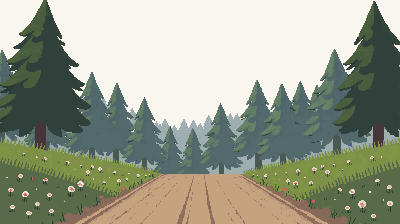
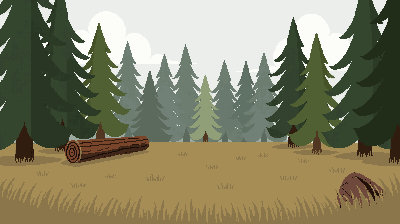
Draw every figure to one scale, and take the autumn clearing
Each sprite filled its 64px canvas, so a boar came out as tall as a man
and an elk smaller than a wolf. view/art.ts now gives every figure a
real-world height in metres and the measured pixel height of its
drawing, and the scene draws all of them at one shared pixels-per-metre.
The art helpers move out of app.ts into that file with it.

The forest edge is now the grey autumn clearing, the owner's pick.

diff --git a/src/view/art.ts b/src/view/art.ts
@@ -1,0 +1,62 @@
+import type { MonsterDefinition } from '../sim/types.ts';
+
+/**
+ * Where art lives and how big it is drawn. The simulation never imports this.
+ */
+
+/** Sprites live in public/sprites and are looked up by id. */
+export const spriteFor = (id: string): string => `/sprites/${id}.png`;
+
+/** One icon per slot: every item in a slot shares a name, so it shares a picture. */
+export const iconFor = (slot: string): string => `/icons/${slot}.png`;
+
+/**
+ * Where a fight happens. The spar is inside the walls; everything else is out
+ * past them. Decided here, in the view, because the simulation has no idea
+ * that places exist.
+ */
+export const sceneFor = (definition: MonsterDefinition): string =>
+  `/scenes/${definition.defeat === 'yields' ? 'bastion' : 'forest-edge'}.png`;
+
+/**
+ * How tall each figure really is, so sizes make sense side by side.
+ *
+ * Every sprite fills its 64px canvas, so drawn at one size a boar comes out
+ * as big as a man and an elk smaller than a wolf. Instead each figure is
+ * given a real-world height in metres, and the scene draws it to a shared
+ * scale (`--ppm`, pixels per metre, in the stylesheet).
+ *
+ * `figurePx` is the height of the opaque pixels on the 64px canvas, measured
+ * once when the sprite landed. Re-measure it if the sprite is regenerated.
+ * `metres` is the top of the figure as drawn to the ground — antlers count,
+ * a bear on all fours is measured at the hump.
+ */
+interface FigureHeight {
+  readonly metres: number;
+  readonly figurePx: number;
+}
+
+const FIGURE_HEIGHTS: Readonly<Record<string, FigureHeight>> = {
+  greataxe: { metres: 1.85, figurePx: 52 },
+  'twin-daggers': { metres: 1.75, figurePx: 59 },
+  oswald: { metres: 1.75, figurePx: 57 },
+  'strange-boar': { metres: 1.0, figurePx: 57 },
+  'strange-elk': { metres: 2.3, figurePx: 54 },
+  'strange-wolf': { metres: 0.85, figurePx: 32 },
+  'strange-bear': { metres: 1.2, figurePx: 43 },
+  'strayed-hunter': { metres: 2.0, figurePx: 60 },
+};
+
+/** Fallback for a sprite nobody has measured yet: drawn as if it were a person. */
+const UNMEASURED: FigureHeight = { metres: 1.8, figurePx: 56 };
+
+/** A sprite plus how many metres its whole 64px canvas stands for. */
+export interface Figure {
+  readonly sprite: string;
+  readonly canvasMetres: number;
+}
+
+export function figureFor(id: string): Figure {
+  const height = FIGURE_HEIGHTS[id] ?? UNMEASURED;
+  return { sprite: spriteFor(id), canvasMetres: (height.metres * 64) / height.figurePx };
+}

diff --git a/src/view/app.ts b/src/view/app.ts
@@ -4,7 +4,7 @@ import { runFight } from '../sim/combat.ts';
 import { createHero, createMonster } from '../sim/combatants.ts';
 import { Rng } from '../sim/rng.ts';
 import { rollDrop } from '../sim/roll.ts';
-import type { Combatant, Item, Modifier, MonsterDefinition, Slot, Weapon } from '../sim/types.ts';
+import type { Combatant, Item, Modifier, MonsterDefinition, Weapon } from '../sim/types.ts';
 import {
   acquireWeapon,
   addToBackpack,
@@ -22,22 +22,9 @@ import {
   type RunState,
 } from '../state/run.ts';
 import { loadRun, saveRun } from '../state/storage.ts';
+import { figureFor, iconFor, sceneFor, spriteFor } from './art.ts';
 import { playFight } from './fight-view.ts';
 import { formatModifier, isBeneficial } from './format.ts';
-
-/** Sprites live in public/sprites and are looked up by id. */
-const spriteFor = (id: string): string => `/sprites/${id}.png`;
-
-/** One icon per slot: every item in a slot shares a name, so it shares a picture. */
-const iconFor = (slot: Slot): string => `/icons/${slot}.png`;
-
-/**
- * Where a fight happens. The spar is inside the walls; everything else is out
- * past them. Decided here, in the view, because the simulation has no idea
- * that places exist.
- */
-const sceneFor = (definition: MonsterDefinition): string =>
-  `/scenes/${definition.defeat === 'yields' ? 'bastion' : 'forest-edge'}.png`;
 
 /**
  * How often a corrupted kill yields a weapon you do not already have.
@@ -83,8 +70,8 @@ export function start(mount: HTMLElement): void {
     mount.append(stage);
 
     await playFight(stage, you, foe, result, {
-      hero: spriteFor(run.weaponId),
-      foe: spriteFor(definition.id),
+      hero: figureFor(run.weaponId),
+      foe: figureFor(definition.id),
       scene: sceneFor(definition),
     });
 

diff --git a/src/view/fight-view.ts b/src/view/fight-view.ts
@@ -1,4 +1,5 @@
 import type { Combatant, CombatEvent, FightResult } from '../sim/types.ts';
+import type { Figure } from './art.ts';
 
 /**
  * Plays a finished fight back to the player.
@@ -30,8 +31,8 @@ interface Side {
  * simulation has no idea art exists and should keep it that way.
  */
 export interface FightArt {
-  readonly hero: string;
-  readonly foe: string;
+  readonly hero: Figure;
+  readonly foe: Figure;
   /** Backdrop for the whole exchange. Where you are, not who you are. */
   readonly scene: string;
 }
@@ -155,7 +156,7 @@ function apply(event: CombatEvent, sides: Map<string, Side>, log: HTMLOListEleme
   }
 }
 
-function sideMarkup(kind: 'hero' | 'foe', combatant: Combatant, sprite: string): string {
+function sideMarkup(kind: 'hero' | 'foe', combatant: Combatant, figure: Figure): string {
   const meter =
     combatant.resource === null
       ? ''
@@ -172,7 +173,13 @@ function sideMarkup(kind: 'hero' | 'foe', combatant: Combatant, sprite: string):
         ${meter}
       </div>
       <div class="figure">
-        <img class="portrait" src="${escape(sprite)}" alt="" onerror="this.remove()" />
+        <img
+          class="portrait"
+          src="${escape(figure.sprite)}"
+          style="--canvas-metres: ${figure.canvasMetres}"
+          alt=""
+          onerror="this.remove()"
+        />
         <div class="floaters"></div>
       </div>
     </div>

diff --git a/src/style.css b/src/style.css
@@ -261,6 +261,8 @@ button.ghost:hover {
  * them in. Pixel art, so it scales without blur.
  */
 .scene {
+  /* Pixels per metre. Every figure is drawn to this one scale. */
+  --ppm: 60;
   position: relative;
   aspect-ratio: 400 / 224;
   border: 1px solid var(--ink-edge);
@@ -466,9 +468,8 @@ button.ghost:hover {
 }
 
 @media (max-width: 34rem) {
-  .scene .portrait {
-    width: 80px;
-    height: 80px;
+  .scene {
+    --ppm: 38;
   }
 
   .side-name {
@@ -580,9 +581,10 @@ button.ghost:hover {
   filter: drop-shadow(0 3px 0 rgba(0, 0, 0, 0.45));
 }
 
+/* The whole 64px canvas stands for --canvas-metres of world; see view/art.ts. */
 .scene .portrait {
-  width: 128px;
-  height: 128px;
+  width: calc(var(--canvas-metres, 2) * var(--ppm) * 1px);
+  height: calc(var(--canvas-metres, 2) * var(--ppm) * 1px);
 }
 
 .portrait.large {
